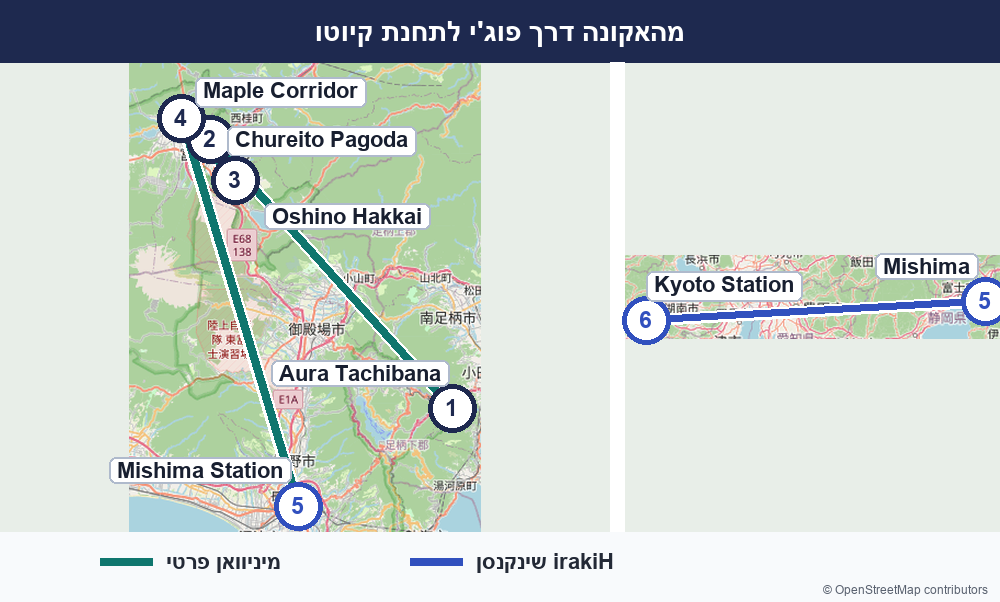
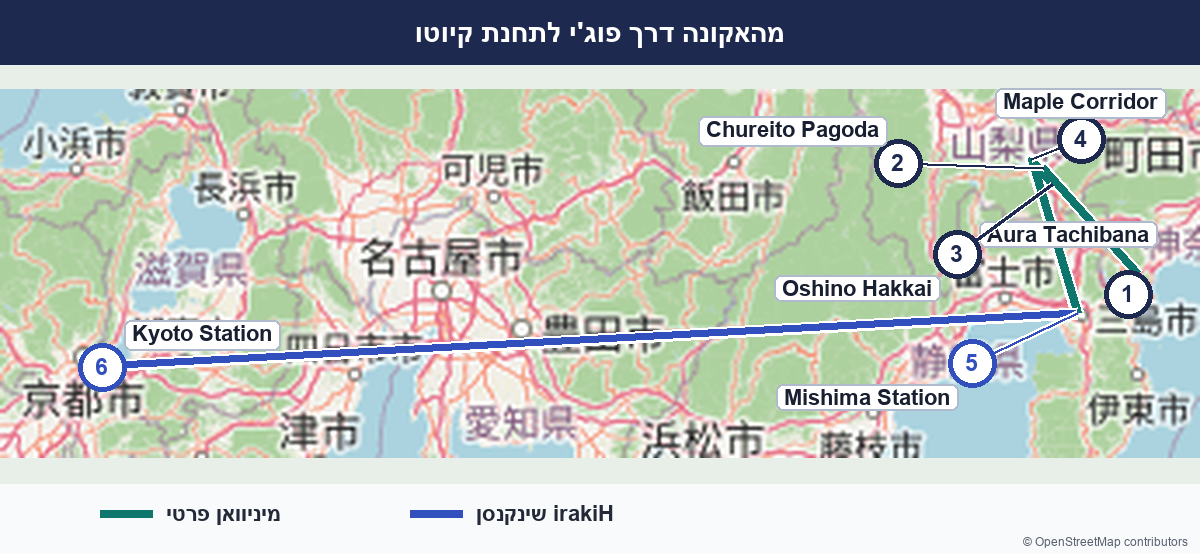
Unify day 16 route on one map

diff --git a/index.html b/index.html
@@ -1083,7 +1083,7 @@ const citiesByDay = {
 const routeMapsByDay = {
   '14': { src: 'assets/maps/day14_walking_map.png', ratio: '338 / 261' },
   '15': { src: 'assets/maps/day15_route_map.png', ratio: '400 / 250', legend: false },
-  '16': { src: 'assets/maps/day16_route_map.png', ratio: '1000 / 602', legend: false },
+  '16': { src: 'assets/maps/day16_route_map.png?v=one-map', ratio: '1200 / 554', legend: false },
   '17': { src: 'assets/maps/day17_route_map.png?v=large-labels', ratio: '900 / 540', legend: false },
   '24': { src: 'assets/maps/day24_route_map.png', ratio: '254 / 246', legend: false }
 };

diff --git a/_build_day16_map.py b/_build_day16_map.py
@@ -6,12 +6,9 @@ import urllib.request
 from PIL import Image, ImageDraw, ImageFont
 
 OUT = "assets/maps/day16_route_map.png"
-WIDTH, MAP_HEIGHT = 1000, 470
-TITLE_HEIGHT, LEGEND_HEIGHT, GAP = 62, 70, 14
-LEFT_WIDTH = 610
-RIGHT_WIDTH = WIDTH - LEFT_WIDTH - GAP
-LOCAL_BOUNDS = (138.70, 35.10, 139.14, 35.58)
-REGIONAL_BOUNDS = (135.55, 34.84, 139.05, 35.48)
+WIDTH, MAP_HEIGHT = 1200, 420
+TITLE_HEIGHT, LEGEND_HEIGHT = 64, 70
+BOUNDS = (135.50, 34.75, 139.30, 35.70)
 
 STOPS = {
     "hakone": (35.2273, 139.1042),
@@ -93,8 +90,7 @@ def point(key, bounds, zoom, width, x_offset=0):
 
 
 card = Image.new("RGB", (WIDTH, TITLE_HEIGHT + MAP_HEIGHT + LEGEND_HEIGHT), "white")
-card.paste(build_map(LOCAL_BOUNDS, 10, LEFT_WIDTH), (0, TITLE_HEIGHT))
-card.paste(build_map(REGIONAL_BOUNDS, 7, RIGHT_WIDTH), (LEFT_WIDTH + GAP, TITLE_HEIGHT))
+card.paste(build_map(BOUNDS, 7, WIDTH), (0, TITLE_HEIGHT))
 draw = ImageDraw.Draw(card)
 
 navy = (30, 41, 79)
@@ -102,36 +98,37 @@ drive = (15, 118, 110)
 rail = (49, 80, 190)
 draw.rectangle((0, 0, WIDTH, TITLE_HEIGHT), fill=navy)
 draw.text((WIDTH // 2, TITLE_HEIGHT // 2), he("מהאקונה דרך פוג'י לתחנת קיוטו"), font=font(28, True), fill="white", anchor="mm")
-draw.rectangle((LEFT_WIDTH, TITLE_HEIGHT, LEFT_WIDTH + GAP, TITLE_HEIGHT + MAP_HEIGHT), fill="white")
 
-local_points = [point(key, LOCAL_BOUNDS, 10, LEFT_WIDTH) for key in ("hakone", "chureito", "oshino", "maple", "mishima")]
-regional_points = [
-    point("mishima", REGIONAL_BOUNDS, 7, RIGHT_WIDTH, LEFT_WIDTH + GAP),
-    point("kyoto", REGIONAL_BOUNDS, 7, RIGHT_WIDTH, LEFT_WIDTH + GAP),
-]
-for points, color in ((local_points, drive), (regional_points, rail)):
+anchors = {key: point(key, BOUNDS, 7, WIDTH) for key in STOPS}
+for points, color in (
+    ([anchors[key] for key in ("hakone", "chureito", "oshino", "maple", "mishima")], drive),
+    ([anchors["mishima"], anchors["kyoto"]], rail),
+):
     draw.line(points, fill="white", width=13, joint="curve")
     draw.line(points, fill=color, width=8, joint="curve")
 
 
-def marker(position, number, label, offset, color=navy):
-    x, y = position
+def marker(key, number, label, display_offset, label_offset, color=navy):
+    anchor_x, anchor_y = anchors[key]
+    x, y = anchor_x + display_offset[0], anchor_y + display_offset[1]
+    if (x, y) != (anchor_x, anchor_y):
+        draw.line((anchor_x, anchor_y, x, y), fill="white", width=7)
+        draw.line((anchor_x, anchor_y, x, y), fill=color, width=3)
     draw.ellipse((x - 24, y - 24, x + 24, y + 24), fill="white", outline=color, width=5)
     draw.text((x, y), str(number), font=font(23, True), fill=color, anchor="mm")
-    tx, ty = x + offset[0], y + offset[1]
+    tx, ty = x + label_offset[0], y + label_offset[1]
     label_font = font(22, True)
     box = draw.textbbox((tx, ty), label, font=label_font, anchor="mm")
     draw.rounded_rectangle((box[0] - 8, box[1] - 5, box[2] + 8, box[3] + 5), radius=7, fill="white", outline=(175, 186, 204), width=2)
     draw.text((tx, ty), label, font=label_font, fill=(24, 31, 48), anchor="mm")
 
 
-marker(local_points[0], 1, "Aura Tachibana", (-92, -35))
-marker(local_points[1], 2, "Chureito Pagoda", (112, 0))
-marker(local_points[2], 3, "Oshino Hakkai", (112, 36))
-marker(local_points[3], 4, "Maple Corridor", (100, -28))
-marker(local_points[4], 5, "Mishima Station", (-98, -36), rail)
-marker(regional_points[0], 5, "Mishima", (-58, -35), rail)
-marker(regional_points[1], 6, "Kyoto Station", (78, -36), rail)
+marker("hakone", 1, "Aura Tachibana", (-10, 20), (-60, -60))
+marker("chureito", 2, "Chureito Pagoda", (-145, -5), (-105, -34))
+marker("oshino", 3, "Oshino Hakkai", (-95, 70), (-100, 34))
+marker("maple", 4, "Maple Corridor", (50, -20), (0, -38))
+marker("mishima", 5, "Mishima Station", (-105, 50), (-105, 34), rail)
+marker("kyoto", 6, "Kyoto Station", (20, 0), (100, -34), rail)
 
 legend_y = TITLE_HEIGHT + MAP_HEIGHT
 draw.rectangle((0, legend_y, WIDTH, legend_y + LEGEND_HEIGHT), fill=(248, 250, 252))
